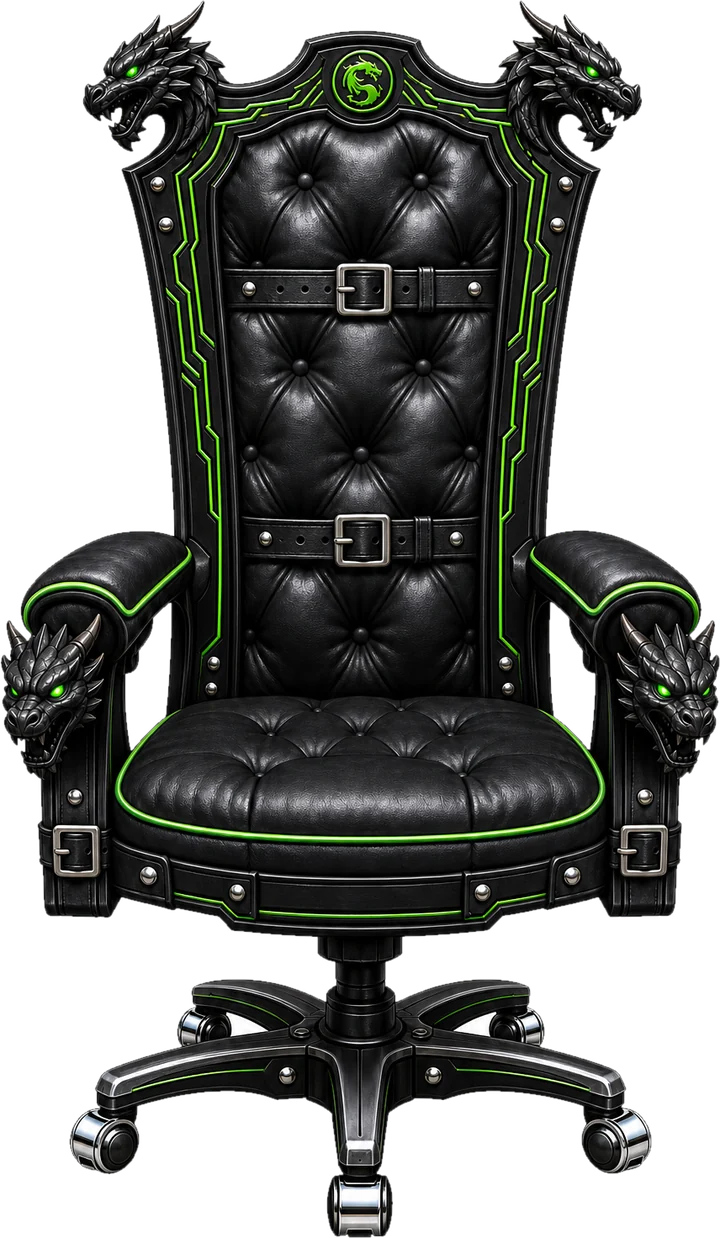
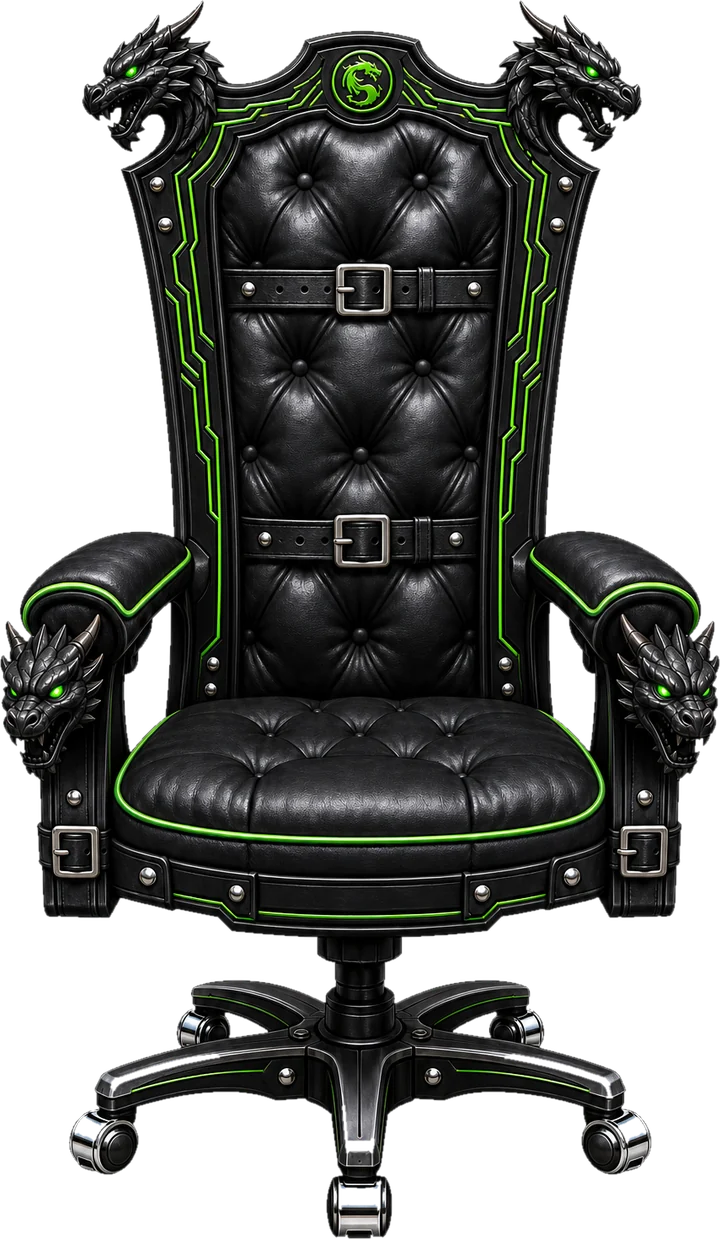
Кресло Боцмана: вырезан белый фон между лучами крестовины, кресло ниже
Claude-Session: https://claude.ai/code/session_01XtpZhZabEYUcJEQKQgYpHe

diff --git a/src/client/art/desk-data.ts b/src/client/art/desk-data.ts
@@ -1,4 +1,4 @@
 /* Generated by tools/scene/build-scene.py — do not edit by hand. Aspect h/w of each desk and monitor picture. */
 export const ART_ASPECT: Record<string, number> = {"desk-001": 0.4031, "desk-002": 0.4173, "desk-003": 0.4043, "desk-004": 0.4094, "monitor-1": 1.0, "monitor-center": 0.7741, "monitor-left": 0.8226, "monitor-right": 0.7983};
 /** chairs in rig coordinates (1000×1400): drawn behind the seated character */
-export const CHAIR_FIT: Record<string, { x: number; y: number; w: number; h: number }> = {"chair-1": {"x": -21.5, "y": -30.0, "w": 1044, "h": 1396}, "chair-2": {"x": -0.5, "y": -30.0, "w": 1002, "h": 1396}, "chair-3": {"x": -3.5, "y": -30.0, "w": 1007, "h": 1396}, "chair-babafey": {"x": 49.5, "y": -30.0, "w": 901, "h": 1396}, "chair-bebyakyan": {"x": -22.0, "y": -30.0, "w": 1044, "h": 1396}, "chair-botsman": {"x": 94.0, "y": -30.0, "w": 812, "h": 1396}, "chair-datsik": {"x": 7.0, "y": -30.0, "w": 986, "h": 1396}, "chair-garkusha": {"x": -1.0, "y": -30.0, "w": 1002, "h": 1396}, "chair-kedr": {"x": 42.5, "y": -30.0, "w": 915, "h": 1396}, "chair-knyaz": {"x": 56.0, "y": -100.0, "w": 888, "h": 1396}, "chair-mugo": {"x": 81.0, "y": -30.0, "w": 838, "h": 1396}, "chair-pepe": {"x": 6.0, "y": -30.0, "w": 988, "h": 1396}, "chair-vadim": {"x": 103.5, "y": 0.0, "w": 829, "h": 1396}, "chair-vodovoz": {"x": -0.5, "y": -30.0, "w": 1001, "h": 1396}};
+export const CHAIR_FIT: Record<string, { x: number; y: number; w: number; h: number }> = {"chair-1": {"x": -21.5, "y": -30.0, "w": 1044, "h": 1396}, "chair-2": {"x": -0.5, "y": -30.0, "w": 1002, "h": 1396}, "chair-3": {"x": -3.5, "y": -30.0, "w": 1007, "h": 1396}, "chair-babafey": {"x": 49.5, "y": -30.0, "w": 901, "h": 1396}, "chair-bebyakyan": {"x": -22.0, "y": -30.0, "w": 1044, "h": 1396}, "chair-botsman": {"x": 94.5, "y": 10.0, "w": 811, "h": 1396}, "chair-datsik": {"x": 7.0, "y": -30.0, "w": 986, "h": 1396}, "chair-garkusha": {"x": -1.0, "y": -30.0, "w": 1002, "h": 1396}, "chair-kedr": {"x": 42.5, "y": -30.0, "w": 915, "h": 1396}, "chair-knyaz": {"x": 56.0, "y": -100.0, "w": 888, "h": 1396}, "chair-mugo": {"x": 81.0, "y": -30.0, "w": 838, "h": 1396}, "chair-pepe": {"x": 6.0, "y": -30.0, "w": 988, "h": 1396}, "chair-vadim": {"x": 103.5, "y": 0.0, "w": 829, "h": 1396}, "chair-vodovoz": {"x": -0.5, "y": -30.0, "w": 1001, "h": 1396}};

diff --git a/src/client/preload.ts b/src/client/preload.ts
@@ -9,7 +9,7 @@ import { ASSET_FILES } from "./asset-manifest.ts";
 import { ROOM_BACKDROP, ROOM_BG } from "../content/home-scene.ts";
 
 /** cache-busting versions of redrawn art (bump when the picture changes) */
-export const ART_VER = { heroPart: 12, hair: 8, wear: 27, items: 33, pepe: 2, tattoo: 17, monitor: 2, chair: 6, shop: 3 } as const;
+export const ART_VER = { heroPart: 12, hair: 8, wear: 27, items: 33, pepe: 2, tattoo: 17, monitor: 2, chair: 7, shop: 3 } as const;
 
 /** the URL a screen really requests for a file from the manifest */
 export function usedUrl(path: string): string {

diff --git a/tools/scene/build-scene.py b/tools/scene/build-scene.py
@@ -50,7 +50,7 @@ for f in sorted(os.listdir(os.path.join(HERE, "source"))):
 # chairs: drawn on the 2000×2800 character canvas in place (like the clothes) → trimmed, half size, and their place
 # in the 1000×1400 rig coordinates
 CHAIRS = {}
-CHAIR_LIFT = {"chair-knyaz": 70, "chair-vadim": -30}  # rig units (negative — lower)
+CHAIR_LIFT = {"chair-knyaz": 70, "chair-vadim": -30, "chair-botsman": -40}  # rig units (negative — lower)
 CHAIR_DX = {"chair-vadim": 18}  # rig units, a nudge to the right where a picture sits off-centre
 CHAIR_BOX = (122, -60, 1877, 2733)  # where a chair stands on the 2000×2800 character canvas: the wheels on the floor line, the back up past the top of the head
 for f in sorted(os.listdir(os.path.join(HERE, "source"))):
